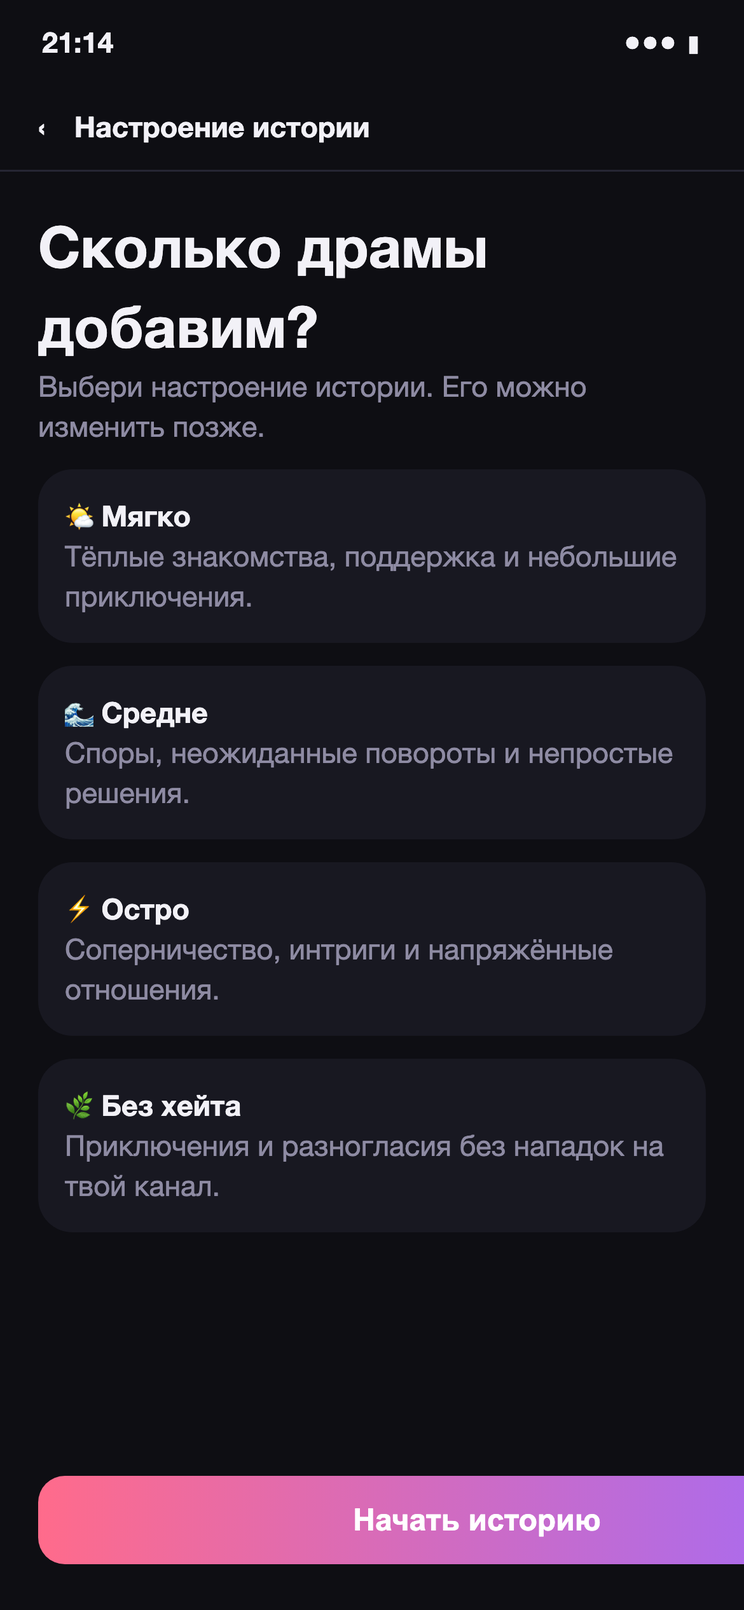
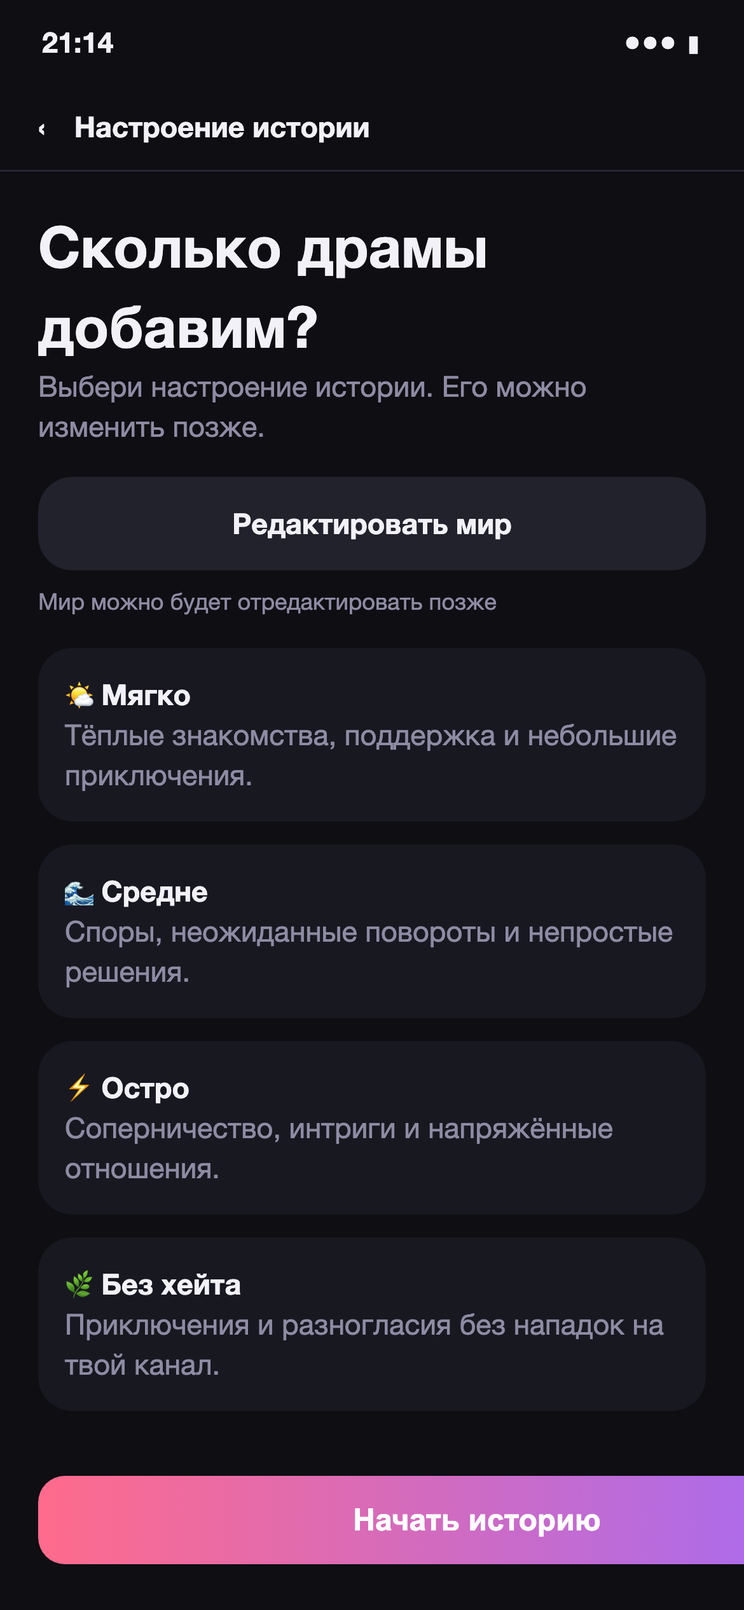
fix(frontend): контекст редактора и доступ к настройкам мира (#201) [skip-deploy]
Closes #189. Развёртывание вместе с обновлением SDK из #202.

diff --git a/frontend/src/screens/worldQuick.tsx b/frontend/src/screens/worldQuick.tsx
@@ -1,4 +1,4 @@
-import { useState } from 'react'
+import { useState, type ReactNode } from 'react'
 import { useStore } from '../app/store'
 import { avatarPersonalization } from '../app/avatarPersonalization'
 import { displayHandle } from '../app/handle'
@@ -15,7 +15,6 @@ import { TextField } from '../ui/TextField'
 import { AvatarPersonalization } from '../ui/AvatarPersonalization'
 import type { Address, WorldDefinition, WorldId } from '../api/types'
 
-function advanced(draft: WorldDraft) { setWorldDraft({ ...draft, advanced: true }) }
 export function WorldOverview() {
   const draft = useWorldDraft(); const nav = useNav(); const { player } = useStore()
   const [confirmSwitch, setConfirmSwitch] = useState(false)
@@ -53,7 +52,7 @@ export function QuickWorldForm({ draft }: { draft: WorldDraft }) {
     <TextField label="Расскажи о своём мире" value={d.description} onChange={description => updateWorldDraft({ description })} rows={5} placeholder="Город парит над морем. Здесь письма доставляют птицы, а жители ищут пропавший остров…" />
     <details className="card"><summary>Нужна идея?</summary><p className="small muted">{d.description.length ? 'Очисти описание, чтобы выбрать готовую идею.' : 'Выбери основу и допиши свои детали.'}</p>{['Город над облаками, где жители ищут пропавший остров и оставляют находки в общей ленте.', 'Космическая станция, на которой каждое утро появляется сообщение из будущего.'].map(idea => <button className="opt" key={idea} disabled={d.description.length > 0} onClick={() => { if (!d.description.length) updateWorldDraft({ description: idea }) }}>{idea}</button>)}</details>
     {!draft.editingId && <p className="small prototype-note">DEV: пока показываем пример наполнения вместо AI-генерации.</p>}
-    <button className="text-link" onClick={() => { advanced(draft); nav.push('05-7b_own_world') }}>Расширенные настройки <span>→</span></button><p className="small muted">Правила, герои и завязка — если хочется настроить всё самому.</p>
+    <button className="text-link" onClick={() => nav.push('05-12_world_advanced')}>Расширенные настройки <span>→</span></button><p className="small muted">Правила, герои и завязка — если хочется настроить всё самому.</p>
   </div><BottomCTA main="Мой персонаж" disabled={!d.title.trim() || !d.description.trim()} onMain={() => { const current = getWorldDraft()!; setWorldDraft({ ...current, definition: draft.editingId ? d : prototypeWorld(d), previewOnly: !draft.editingId }); nav.push('01-4_channel') }} /></div>
 }
 export function QuickChannelForm({ draft }: { draft: WorldDraft }) {
@@ -74,8 +73,8 @@ export function QuickChannelForm({ draft }: { draft: WorldDraft }) {
     <details className="card profile-preview"><summary><Avatar seed={d.avatar} avatarStyle={d.avatarStyle} profile={{ address: draft.address, ageBand: draft.ageBand, personalizeAvatar: draft.personalizeAvatar }} size={40} /><span><b>{d.name || "Твой персонаж"}</b><span className="small muted">{displayHandle(d.avatar)}</span></span><span className="small">Изменить</span></summary><label className="label">Ник<input aria-label="Ник" value={d.avatar} maxLength={80} onChange={e => updateWorldDraft({ avatar: e.target.value })} /></label><Avatar seed={d.avatar} avatarStyle={d.avatarStyle} profile={{ address: draft.address, ageBand: draft.ageBand, personalizeAvatar: draft.personalizeAvatar }} size={56} /><AvatarPersonalization enabled={draft.personalizeAvatar !== false} onChange={personalizeAvatar => setWorldDraft({ ...draft, personalizeAvatar })} /></details>
   </div><BottomCTA main="Выбрать градус драмы" disabled={!d.name.trim() || !d.role.trim() || !d.avatar.trim()} onMain={() => nav.push('01-4b_world_setup')} /></div>
 }
-export function DramaPicker({ definition: d }: { definition: WorldDefinition }) {
-  return <><h1>Сколько драмы добавим?</h1><p className="muted">Выбери настроение истории. Его можно изменить позже.</p><div className="drama-options">{dramaOptions.map(option => <button className={`drama-option ${d.drama === option.id ? 'selected' : ''}`} aria-pressed={d.drama === option.id} onClick={() => updateWorldDraft({ drama: option.id })} key={option.id}><span className="drama-icon">{option.icon}</span><div><b>{option.title}</b><p>{option.description}</p>{d.drama === option.id && <div className="drama-example">{option.example}</div>}</div><span>{d.drama === option.id ? '✓' : ''}</span></button>)}</div></>
+export function DramaPicker({ definition: d, beforeOptions }: { definition: WorldDefinition; beforeOptions?: ReactNode }) {
+  return <><h1>Сколько драмы добавим?</h1><p className="muted">Выбери настроение истории. Его можно изменить позже.</p>{beforeOptions}<div className="drama-options">{dramaOptions.map(option => <button className={`drama-option ${d.drama === option.id ? 'selected' : ''}`} aria-pressed={d.drama === option.id} onClick={() => updateWorldDraft({ drama: option.id })} key={option.id}><span className="drama-icon">{option.icon}</span><div><b>{option.title}</b><p>{option.description}</p>{d.drama === option.id && <div className="drama-example">{option.example}</div>}</div><span>{d.drama === option.id ? '✓' : ''}</span></button>)}</div></>
 }
 export function WorldPrototypePreview() {
   const draft = useWorldDraft(); const nav = useNav()
@@ -85,6 +84,6 @@ export function WorldPrototypePreview() {
     <h2>Первая запись в ленте</h2><Card><div className="row"><Avatar seed={first?.avatarSeed} avatarStyle={d.avatarStyle} mode="default" /><div><b>{first?.name}</b><div className="small muted">{first?.role}</div></div></div><p>{d.firstContext}</p><div className="small muted">♡ 12　💬 2</div></Card>
     {second && <Card><b>{second.name}</b><p>У меня есть другая версия. Давай сравним находки в ленте?</p></Card>}
     <p className="small muted">Это пример наполнения для проверки интерфейса. После согласования AI сможет подбирать героев и завязку под твоё описание.</p>
-    <button className="text-link" onClick={() => { advanced(draft); nav.push('05-7b_own_world') }}>Посмотреть расширенные настройки →</button>
+    <button className="text-link" onClick={() => nav.push('05-12_world_advanced')}>Посмотреть расширенные настройки →</button>
   </div><BottomCTA main="Вернуться к настройке" onMain={() => nav.back()} /></div>
 }

diff --git a/frontend/src/screens/day.tsx b/frontend/src/screens/day.tsx
@@ -271,7 +271,8 @@ function Me() {
           {[[`⚡ ${p.postsLeft}`, 'энергии'], [fmt(p.subs), 'подписчиков']].map(([v, l]) => <Card key={l} style={{ padding: 14, textAlign: 'center' }}><div style={{ fontWeight: 800, fontSize: 16 }}>{v}</div><div className="small muted">{l}</div></Card>)}
         </div>
         <div className="profile-task-row"><div><b>💡 О чём написать</b><p className="small muted">{p.wants[0]?.text ?? "Поделись событием из своего мира"}</p></div><button className="text-link small" onClick={() => nav.push('02-1_compose')}>Написать →</button></div><p className="small muted energy-help">Пост и ответ расходуют энергию. Новый запас — в 09:00 МСК.</p>
-        <Card style={{ marginBottom: 18 }}><b>{p.hitOwnWorldMilestone ? '✨ Свой мир открыт' : '✨ Создай свой мир'}</b><p className="small muted">{p.hitOwnWorldMilestone ? 'Доступ подтверждён. Можно придумать свою историю.' : 'Первый пост приглашённого друга или 500 подписчиков в одном мире.'}</p>{!p.hitOwnWorldMilestone && <><progress aria-label="Подписчики до открытия своего мира" value={Math.min(500, p.subs)} max={500} /><div className="small muted">Этот мир: {Math.min(500, p.subs)} / 500</div></>}<button className="text-link" onClick={() => { if (p.hitOwnWorldMilestone) { beginOwnWorld(p); nav.push('05-7b_own_world', { world: 'own' }) } else nav.push('04-3_invite') }}>{p.hitOwnWorldMilestone ? 'Создать свой мир →' : 'Пригласить друга →'}</button></Card>
+        <Card style={{ marginBottom: 12 }}><b>{p.hitOwnWorldMilestone ? '✨ Свой мир открыт' : '✨ Создай свой мир'}</b><p className="small muted">{p.hitOwnWorldMilestone ? 'Доступ подтверждён. Можно придумать свою историю.' : 'Первый пост приглашённого друга или 500 подписчиков в одном мире.'}</p>{!p.hitOwnWorldMilestone && <><progress aria-label="Подписчики до открытия своего мира" value={Math.min(500, p.subs)} max={500} /><div className="small muted">Этот мир: {Math.min(500, p.subs)} / 500</div></>}<button className="text-link" onClick={() => { if (p.hitOwnWorldMilestone) { beginOwnWorld(p); nav.push('05-7b_own_world', { world: 'own' }) } else nav.push('04-3_invite') }}>{p.hitOwnWorldMilestone ? 'Создать свой мир →' : 'Пригласить друга →'}</button></Card>
+        <div className="profile-world-settings"><Button secondary onClick={() => nav.push('05-11_world_rules')}>Настройки мира</Button></div>
         <Card style={{ marginBottom: 10 }}>
           <div className="row" style={{ justifyContent: 'space-between', marginBottom: 8 }}><b>Серия {p.streak.days} дня</b><span className="small" style={{ color: 'var(--gift)' }}>{p.streak.nextReward}</span></div>
           <div style={{ display: 'flex', gap: 6 }}>{DAYS.map((d, i) => <div key={d} style={{ flex: 1, textAlign: 'center' }}><div style={{ height: 30, borderRadius: 9, display: 'flex', alignItems: 'center', justifyContent: 'center', fontSize: 14, ...(p.streak.week[i] ? { background: 'var(--grad)' } : i === today ? { border: '2px dashed var(--accent)' } : { background: '#20202B' }) }}>{p.streak.week[i] ? '🔥' : i === today ? '?' : ''}</div><div className="small muted" style={{ marginTop: 3 }}>{d}</div></div>)}</div>
@@ -354,7 +355,7 @@ function Settings() {
           {row('🎙 Голос канала', `${p.voice} ›`, false, () => nav.push('05-9_voice'))}{row('🙂 Как к тебе обращаться', `${{ she: 'она', he: 'он', nick: 'по нику' }[p.address]} ›`, false, () => openPanel('address'))}
           <AvatarPersonalization enabled={personalizeAvatar} onChange={enabled => setAvatarPersonalization(p.id, enabled)} />
           <div className="row" style={{ marginBottom: 12 }}><Avatar seed={p.handle} size={48} /><span className="small muted">Выбор сохраняется на этом устройстве.</span></div>
-          {row('✨ Реки+', '349 ₽ ›', false, () => nav.push('04-2_fake_door'))}{row('📜 Как устроен мир', '›', false, () => nav.push('05-11_world_rules'))}{row('📋 Правила публикаций', '›', false, () => nav.push('06-4_rules'))}{row('🔒 Мои данные и правила', 'скоро ›', false, () => openPanel('data'))}{row('✉ Поддержка', 'скоро ›', true, () => openPanel('support'))}
+          {row('✨ Реки+', '349 ₽ ›', false, () => nav.push('04-2_fake_door'))}{row('📋 Правила публикаций', '›', false, () => nav.push('06-4_rules'))}{row('🔒 Мои данные и правила', 'скоро ›', false, () => openPanel('data'))}{row('✉ Поддержка', 'скоро ›', true, () => openPanel('support'))}
         </Card>
         <button onClick={() => setDel(true)} className="card" style={{ width: '100%', textAlign: 'center', color: 'var(--accent)', background: 'transparent', border: '1px solid #FF6B8B55' }}>Удалить аккаунт и всё</button>
         <div className="small muted" style={{ textAlign: 'center', marginTop: 8 }}>Удалим канал, переписку и коллекцию. Вернуть будет нельзя</div>

diff --git a/frontend/src/screens/worldWizard.tsx b/frontend/src/screens/worldWizard.tsx
@@ -60,6 +60,7 @@ export function ChannelSetup() {
 }
 export function DescriptionSetup() { return <Ready>{draft => draft.advanced ? <StarsForm draft={draft} /> : <QuickWorldForm draft={draft} />}</Ready> }
 export function VoiceSetup() { return <Ready>{draft => <StarsForm draft={draft} quick={!draft.advanced} />}</Ready> }
+export function AdvancedSetup() { return <Ready>{draft => <StarsForm draft={draft} />}</Ready> }
 export function StarsSetup() { return <Ready>{draft => <StarsForm draft={draft} />}</Ready> }
 function StarsForm({ draft, quick = false }: { draft: NonNullable<ReturnType<typeof useWorldDraft>>; quick?: boolean }) {
   const nav = useNav(); const { setPlayer } = useStore(); const d = draft.definition
@@ -80,10 +81,9 @@ function StarsForm({ draft, quick = false }: { draft: NonNullable<ReturnType<typ
       else setError(cause instanceof ApiError && cause.status === 409 ? 'Мир изменился или создание с нуля пока недоступно. Твои изменения сохранены в черновике.' : cause instanceof ApiError && cause.status === 503 ? 'Проверка истории временно недоступна. Настройки сохранены — попробуй начать ещё раз чуть позже.' : 'Не получилось сохранить мир. Проверь поля и попробуй снова.')
     } finally { setSaving(false) }
   }
-  if (quick) return <div className="screen no-tab"><TopBar title="Настроение истории" onBack={saving ? undefined : nav.back} /><div className="pad"><DramaPicker definition={d} />
+  if (quick) return <div className="screen no-tab"><TopBar title="Настроение истории" onBack={saving ? undefined : nav.back} /><div className="pad"><DramaPicker definition={d} beforeOptions={<div className="drama-world-edit"><Button secondary onClick={() => nav.push('05-12_world_advanced')}>Редактировать мир</Button><p className="small muted">Мир можно будет отредактировать позже</p></div>} />
     <div className="quick-summary"><Avatar seed={d.avatar} avatarStyle={d.avatarStyle} profile={{ address: draft.address, ageBand: draft.ageBand, personalizeAvatar: draft.personalizeAvatar }} /><div><b>{d.name}</b><div className="small muted">{d.title} · {d.role}</div></div></div>
     {draft.previewOnly && <p className="small prototype-note">DEV-прототип: дальше — пример ленты, без создания мира в базе.</p>}
-    <button className="text-link" onClick={() => { setWorldDraft({ ...draft, advanced: true }); nav.push('01-4_channel') }}>Расширенные настройки →</button>
     {error && <p role="alert">{error}</p>}{uncertain && <Button onClick={() => nav.replace('01-3_world')}>Проверить список миров</Button>}
   </div><BottomCTA main={saving ? 'Сохраняем…' : draft.previewOnly ? 'Посмотреть свою историю' : draft.editingId ? 'Сохранить изменения' : 'Начать историю'} disabled={saving || uncertain || !d.voice.trim() || d.stars.length === 0} onMain={save} /></div>
   return <WorldAdvanced draft={draft} saving={saving} error={error} uncertain={uncertain} onSave={save} onCheck={() => nav.replace('01-3_world')} />

diff --git a/frontend/src/screens/worldAdvanced.tsx b/frontend/src/screens/worldAdvanced.tsx
@@ -15,6 +15,12 @@ function StringList({ title, help, values, onChange }: { title: string; help: st
 }
 export function WorldAdvanced({ draft, saving, error, uncertain, onSave, onCheck }: { draft: WorldDraft; saving: boolean; error: string; uncertain: boolean; onSave: () => void; onCheck: () => void }) {
   const nav = useNav(); const d = draft.definition
+  // Temporary editor visits use their own history entry; the draft's mode stays intact.
+  const quickSettings = () => {
+    if (nav.current === '05-12_world_advanced' && nav.canBack) { nav.back(); return }
+    setWorldDraft({ ...draft, advanced: false })
+    nav.replace(d.balanceKey === 'own' || draft.editingId ? '05-7b_own_world' : '01-4_channel')
+  }
   const [open, setOpen] = useState(''); const [attempted, setAttempted] = useState(false)
   const update = updateWorldDraft
   const text = (label: string, key: keyof WorldDefinition, help?: string, rows = 2, maxLength = 2000) => <div><TextField label={label} value={String(d[key])} onChange={v => update({ [key]: v })} rows={rows} maxLength={maxLength} />{help && <p className="field-help small muted">{help}</p>}</div>
@@ -22,7 +28,7 @@ export function WorldAdvanced({ draft, saving, error, uncertain, onSave, onCheck
   const section = (id: string, title: string, subtitle: string, children: ReactNode) => <section className="editor-section" id={`editor-${id}`}><button className="editor-section-head" aria-expanded={open === id} onClick={() => setOpen(open === id ? '' : id)}><span><b>{title}</b><span className="small muted">{subtitle}</span>{attempted && missing === id && <span className="small down">Заполни обязательные поля</span>}</span><span aria-hidden>{open === id ? '−' : '＋'}</span></button>{open === id && <div className="editor-section-body">{children}</div>}</section>
   const changeStar = (id: string, patch: Partial<WorldDefinition['stars'][number]>) => update({ stars: d.stars.map(s => s.id === id ? { ...s, ...patch } : s) })
   return <div className="screen no-tab advanced-world"><TopBar title="Настрой свой мир" onBack={saving ? undefined : nav.back} /><div className="pad">
-    <button className="text-link" onClick={() => { setWorldDraft({ ...draft, advanced: false }); nav.replace(d.balanceKey === 'own' || draft.editingId ? '05-7b_own_world' : '01-4_channel') }}>← Быстрые настройки</button>
+    <button className="text-link" onClick={quickSettings}>← Быстрые настройки</button>
     <h1>Добавь свои детали</h1><p className="muted">Открой нужный раздел. Остальное можно оставить как есть.</p>
     {section('person', 'Твой персонаж', d.name ? `${d.name} · ${d.role}` : 'Имя, занятие и портрет', <>
       {text('Имя персонажа', 'name', undefined, 1, 80)}{text('Кто ты в этой истории', 'role', 'Например: фотограф, который замечает странности.', 2, 80)}

diff --git a/frontend/src/screens/world.tsx b/frontend/src/screens/world.tsx
@@ -5,7 +5,7 @@ import { usePlayer } from '../app/store'
 import { useNav } from '../app/nav'
 import { selectDraftOwner, setWorldDraft } from '../app/worldDraft'
 import { Button, TopBar } from '../ui'
-import { DescriptionSetup } from './worldWizard'
+import { AdvancedSetup, DescriptionSetup } from './worldWizard'
 import { register } from '.'
 import { AgeRuleNote } from './worldAdvanced'
 import { worldArt } from '../app/worldPrototype'
@@ -34,4 +34,4 @@ function WorldDetailsScreen() {
     {error && <p role="alert">{error}</p>}
   </div></div>
 }
-register({ '05-7b_own_world': { component: DescriptionSetup, title: 'Описание и правила мира' }, '05-11_world_rules': { component: WorldDetailsScreen, title: 'Настройки мира' } })
+register({ '05-12_world_advanced': { component: AdvancedSetup, title: 'Редактирование мира' }, '05-7b_own_world': { component: DescriptionSetup, title: 'Описание и правила мира' }, '05-11_world_rules': { component: WorldDetailsScreen, title: 'Настройки мира' } })

diff --git a/frontend/src/theme.css b/frontend/src/theme.css
@@ -400,3 +400,7 @@ summary:focus-visible { outline: 2px solid var(--lilac); outline-offset: 4px; bo
 .welcome-disclaimer { margin-top: 10px; }
 .welcome-world-choice { text-align: center; font-size: 15px; font-weight: 400; color: var(--lilac); margin-top: 24px; }
 @media (max-width: 350px) { .welcome h1 { font-size: 30px; } .intro-portrait-gosha { width: 52px; height: 52px; } }
+
+.drama-world-edit { margin-top: 16px; }
+.drama-world-edit > p { margin-top: 8px; }
+.profile-world-settings { margin-bottom: 18px; }

diff --git a/docs/design/src/journey_v28.py b/docs/design/src/journey_v28.py
@@ -1,0 +1,13 @@
+# #189: user-approved hierarchy and separation of current-world settings.
+edit = '<div class="card" style="text-align:center">Редактировать мир</div><p class="small muted">Мир можно будет отредактировать позже</p>'
+assert edit in S['01-4b_world_setup']
+S['01-4b_world_setup'] = S['01-4b_world_setup'].replace(edit, '', 1)
+intro = '<p class="muted">Выбери настроение истории. Его можно изменить позже.</p>'
+assert intro in S['01-4b_world_setup']
+S['01-4b_world_setup'] = S['01-4b_world_setup'].replace(intro, intro + '<div style="margin:16px 0"><div class="card" style="text-align:center;background:#22222D;font-weight:700">Редактировать мир</div><p class="small muted" style="margin-top:8px">Мир можно будет отредактировать позже</p></div>', 1)
+settings = '<div class="card" style="text-align:center;margin:12px 0">Настройки мира</div>'
+assert settings in S['05-5_collection']
+S['05-5_collection'] = S['05-5_collection'].replace(settings, '', 1)
+invite = '<p>Пригласить друга →</p></div>'
+assert invite in S['05-5_collection']
+S['05-5_collection'] = S['05-5_collection'].replace(invite, invite + '<div class="card" style="text-align:center;margin:12px 0 18px;background:#22222D;font-weight:700">Настройки мира</div>', 1)

diff --git a/docs/design/src/journey_v27.py b/docs/design/src/journey_v27.py
@@ -1,0 +1,9 @@
+# #189: visible world settings and contextual editor return, 20.10.2026.
+marker = '<h1>Сколько драмы добавим?</h1>'
+assert marker in S['01-4b_world_setup']
+S['01-4b_world_setup'] = S['01-4b_world_setup'].replace(marker, '<div class="card" style="text-align:center">Редактировать мир</div><p class="small muted">Мир можно будет отредактировать позже</p>' + marker, 1)
+marker = '<p>Этот мир: 209 / 500</p>'
+assert marker in S['05-5_collection']
+S['05-5_collection'] = S['05-5_collection'].replace(marker, marker + '<div class="card" style="text-align:center;margin:12px 0">Настройки мира</div>', 1)
+import re
+S['05-8_settings'] = re.sub(r'<div class="why"[^>]*><span>📜 Как устроен мир</span>.*?</div>', '', S['05-8_settings'])

diff --git a/docs/design/src/build_journey.py b/docs/design/src/build_journey.py
@@ -331,6 +331,10 @@ exec(open(os.path.join(D, 'journey_v24.py'), encoding='utf-8').read())  # #150 s
 exec(open(os.path.join(D, 'journey_v25.py'), encoding='utf-8').read())  # avatar personalization
 exec(open(os.path.join(D, 'journey_v26.py'), encoding='utf-8').read())  # narrative preset goals
 
+exec(open(os.path.join(D, 'journey_v27.py'), encoding='utf-8').read())  # #189 editor navigation and settings
+
+exec(open(os.path.join(D, 'journey_v28.py'), encoding='utf-8').read())  # #189 button hierarchy
+
 CH = os.environ.get('CHROME_BIN') or shutil.which('google-chrome') or shutil.which('chrome')
 if not CH and os.name == 'nt':
     CH = os.path.join(os.environ.get('PROGRAMFILES', 'C:\\Program Files'), 'Google', 'Chrome', 'Application', 'chrome.exe')

diff --git a/docs/game-flow.md b/docs/game-flow.md
@@ -29,7 +29,8 @@
 4. **Мир.** Все четыре пресета доступны сразу: «Вечерело», «Школа чародеев», «Игра домов», «Айти-тусовка». Создание с нуля открывает постоянный HitOwnWorldMilestone: 500 подписчиков в одном принадлежащем игроку мире либо начисленный бонус пригласившему за первый пост друга. Реки+ и навыки этот доступ не открывают.
 5. **Канал:** роль в мире, название и ник, «как к тебе обращаться: она / он / по нику». Превью показывает выбранную роль; био убрано.
 6. **Решено 13.10.2026: короткий путь из пресета:** для пресета обзор с обложкой → свой персонаж либо герой мира → градус драмы → начало игры. Голос, правила и состав мира берутся из пресета; обязательных редакторов описания и голоса нет. Выбранный герой удаляется из AI-состава. Для создания с нуля быстрый путь: название и описание → персонаж → драма. Расширенные настройки добровольны; единый черновик сохраняет ввод между режимами. Профиль регистрируется только при фактическом создании пресета, если его ещё нет.
-7. **Демо собственного мира:** в DEV доступен просмотр быстрой настройки независимо от игрового доступа; он не открывает доступ на сервере и не создаёт мир. Заполнение героев и завязки — явно обозначенные фиксированные демонстрационные данные, не AI. Финал показывает пример ленты без POST /worlds. Backend-задача генерации будет оформлена после одобрения прототипа; API генерации пока нет. Ручной расширенный редактор существующих миров сохраняет PUT и прогресс. Общие ограничения безопасности действуют, но не дублируются подписью на шаге драмы.
+7. **Редактирование мира (#189):** на шаге драмы кнопка «Редактировать мир» стоит после заголовка и описания, над вариантами с пояснением «Мир можно будет отредактировать позже». Временный вход в расширенный редактор сохраняет исходный экран и режим в истории навигации. «Быстрые настройки», стрелка приложения и Telegram BackButton возвращают на этот экран, сохраняя персонажа, драму и все изменения полей; повторные входы не добавляют циклов. На экране «Я» кнопка «Настройки мира» расположена отдельной строкой сразу под карточкой открытия своего мира и остаётся доступной после открытия. Она ведёт на 05-11 с действием «Редактировать мир». В общих настройках прежнего входа «Как устроен мир» нет; ссылка в ленте сохраняется.
+8. **Демо собственного мира:** в DEV доступен просмотр быстрой настройки независимо от игрового доступа; он не открывает доступ на сервере и не создаёт мир. Заполнение героев и завязки — явно обозначенные фиксированные демонстрационные данные, не AI. Финал показывает пример ленты без POST /worlds. Backend-задача генерации будет оформлена после одобрения прототипа; API генерации пока нет. Ручной расширенный редактор существующих миров сохраняет PUT и прогресс. Общие ограничения безопасности действуют, но не дублируются подписью на шаге драмы.
 8. **Первый экран:** после создания открывается канал нового мира (03-5). Для повторного входа без опубликованных постов доступна завязка и кнопка первого поста. Популярность и события относятся к игре.
 
 **Решено 07.10.2026:** при повторном входе экран с квестом «первый пост» показываем только пока у игрока нет опубликованных постов. После первой публикации сразу открываем канал (03-5). Если проверить публикации не удалось, открываем канал с возможностью повторить загрузку, чтобы не показывать ложный квест первого поста.
